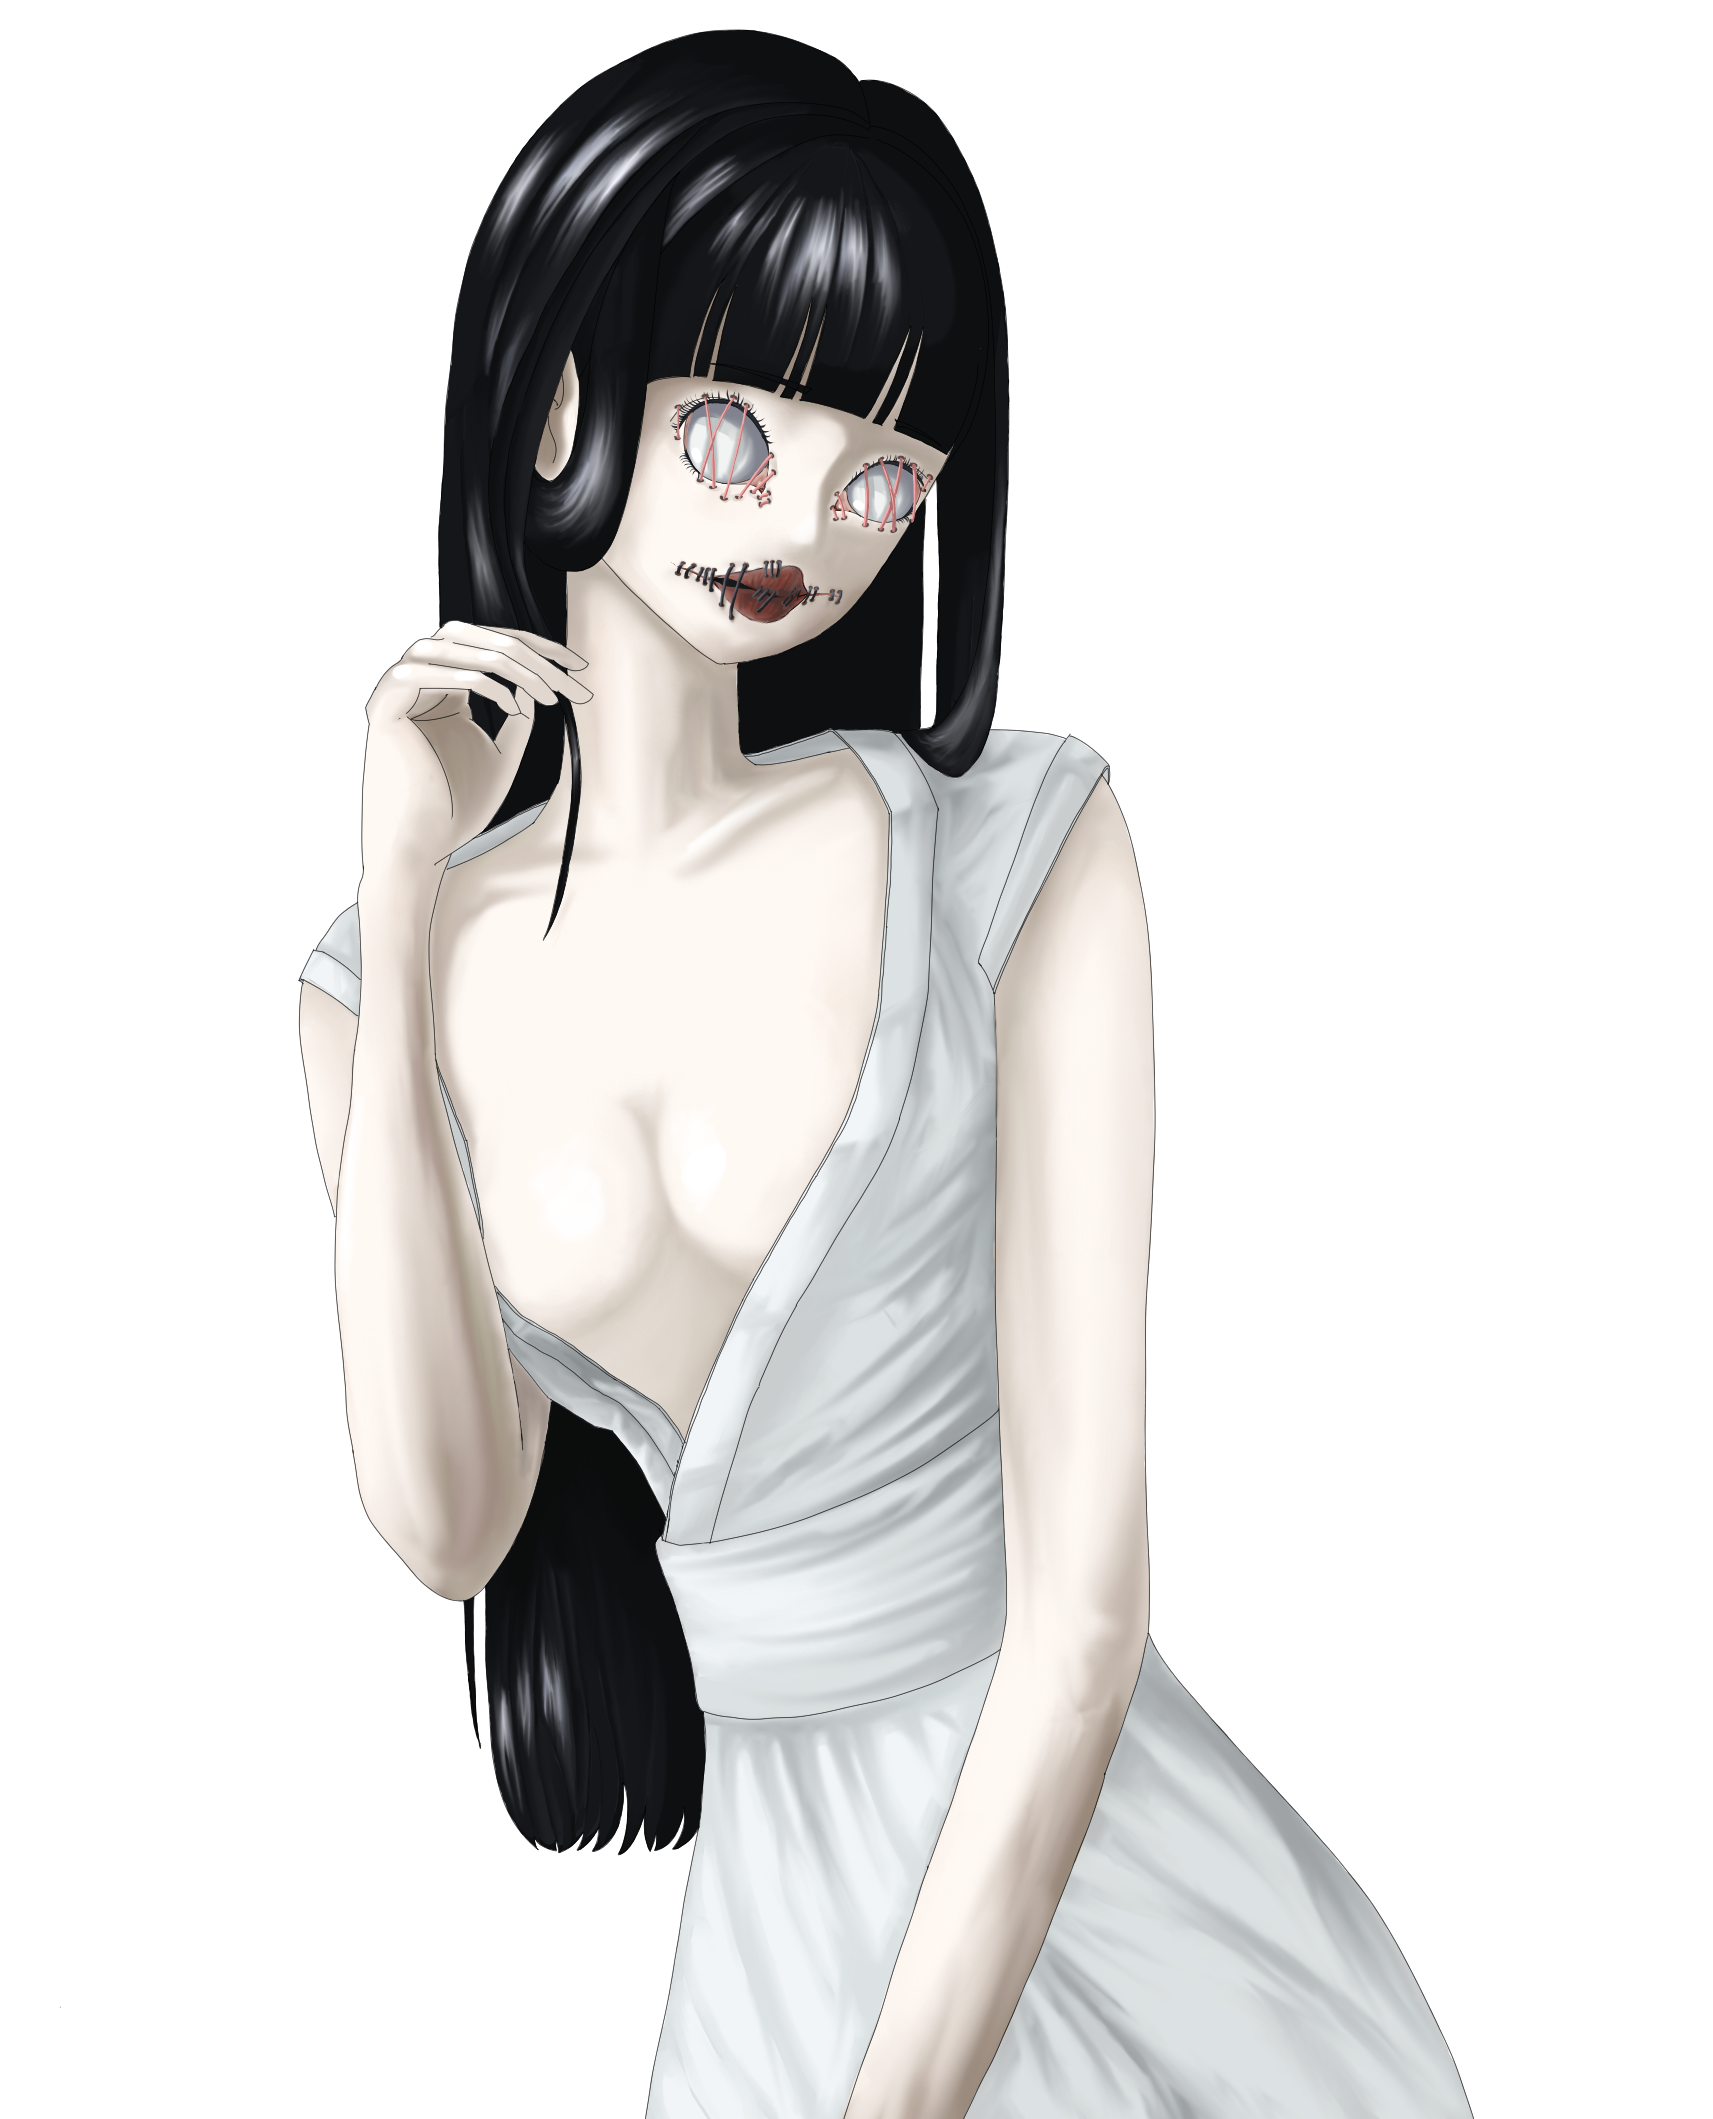
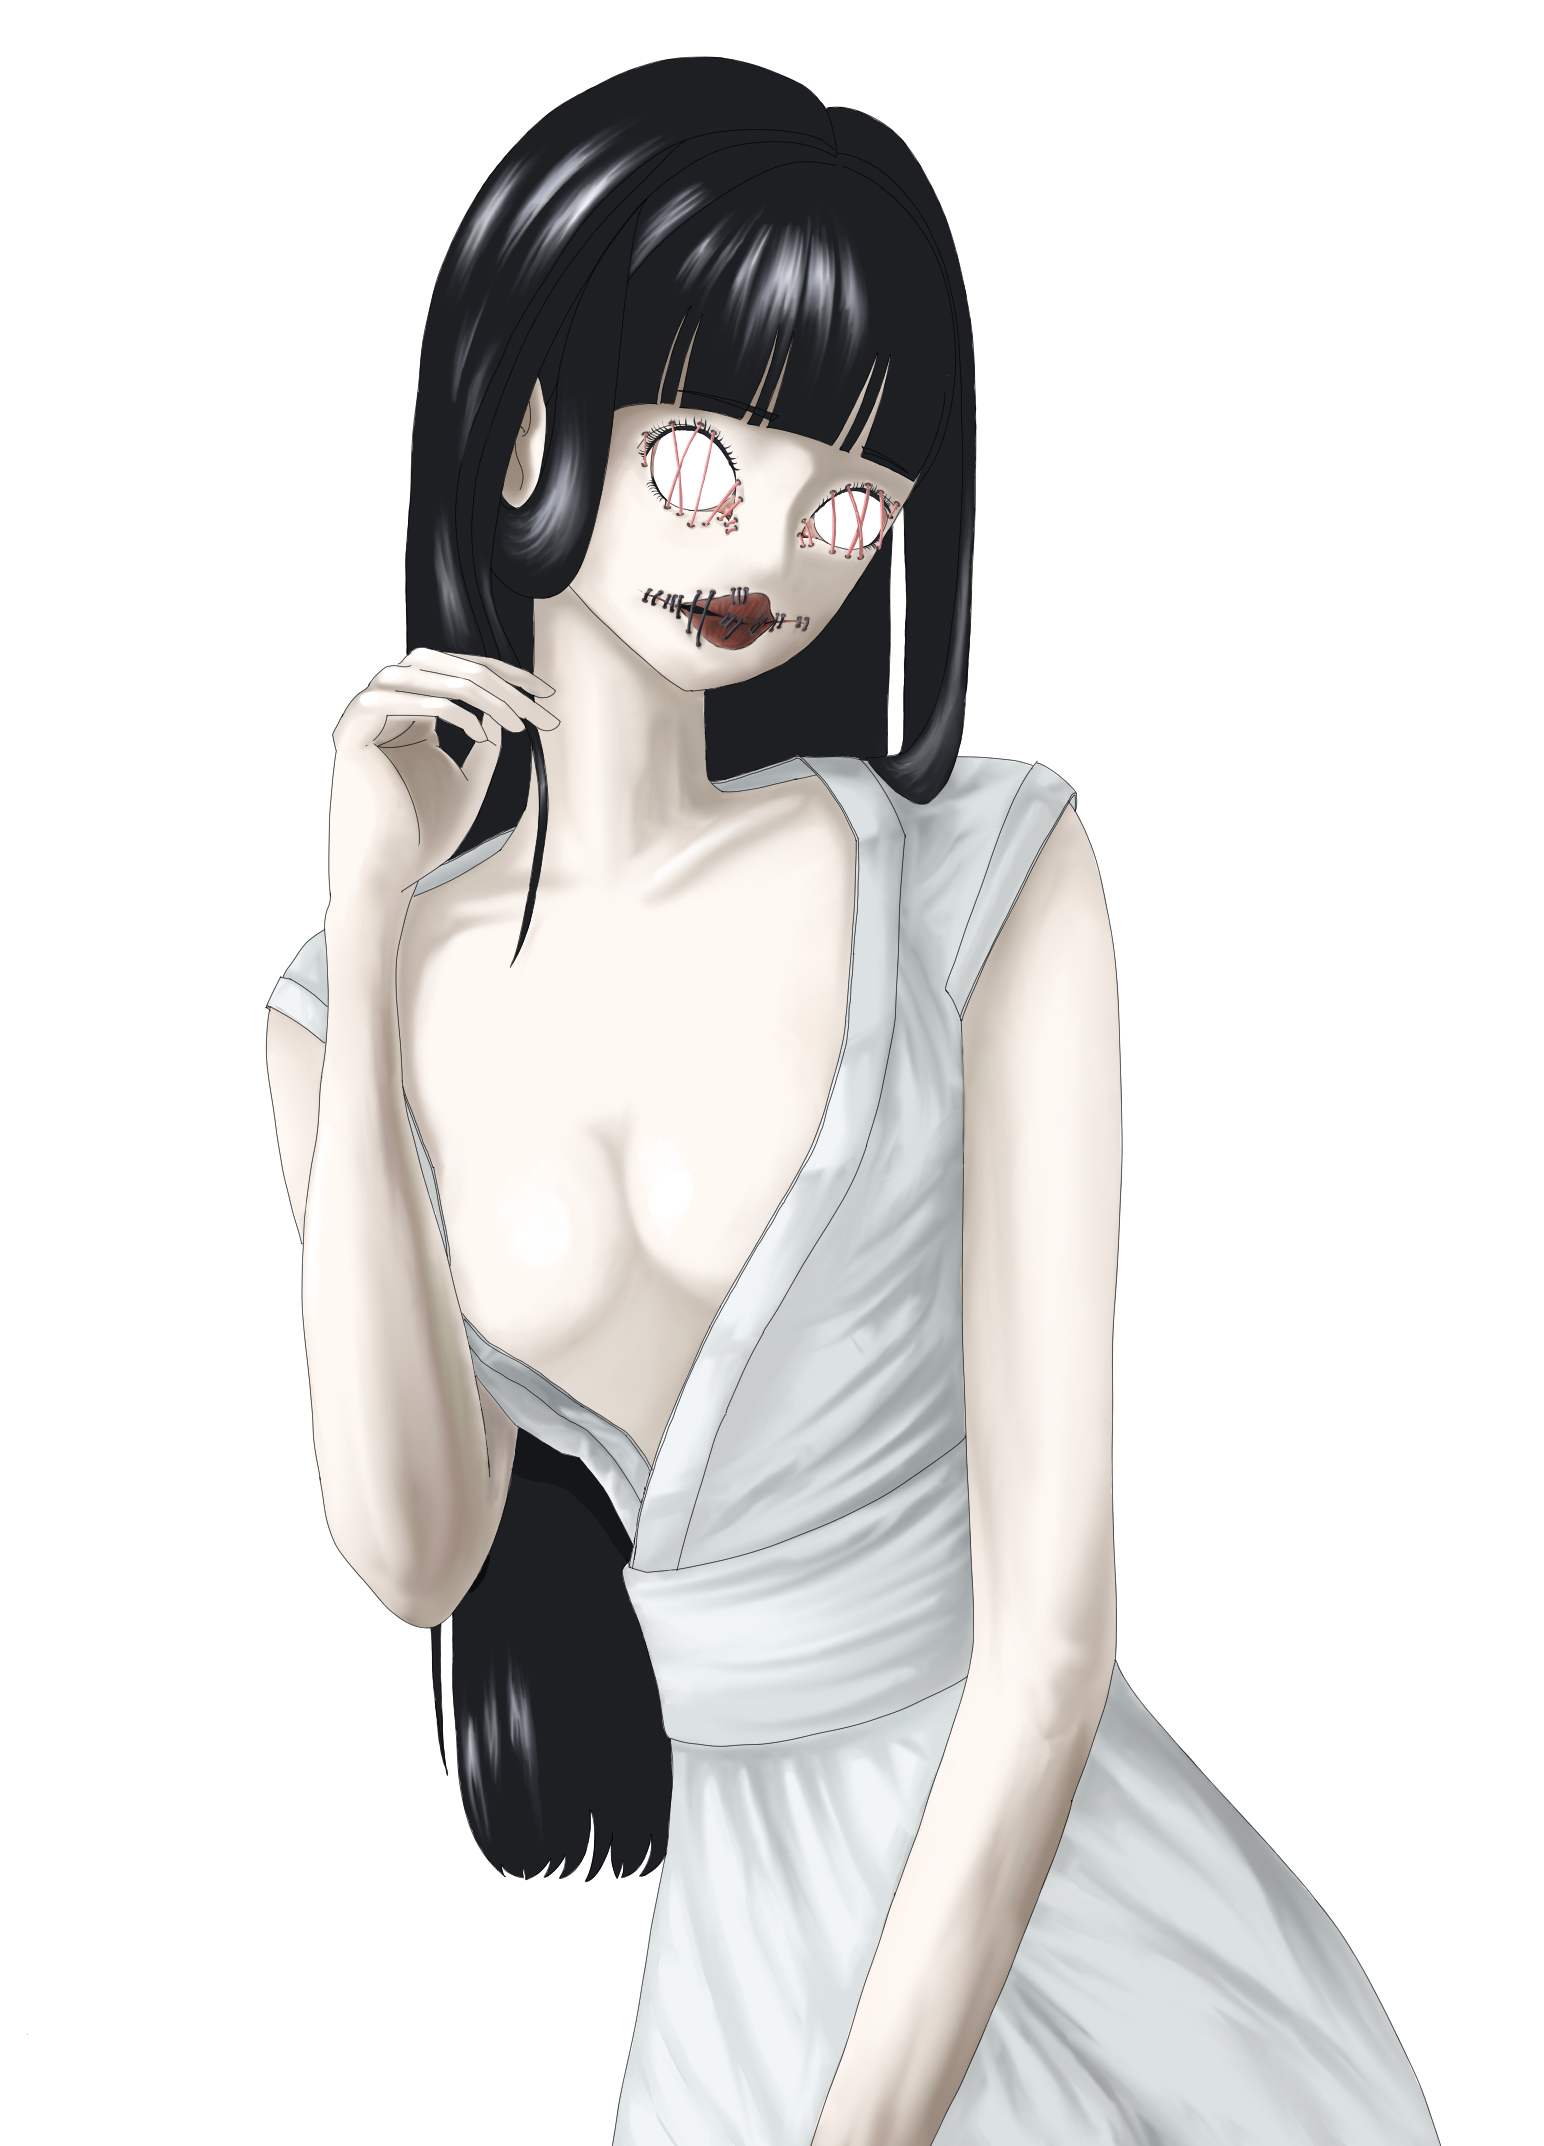
About 2 final aesthetic fix

Changed region(s): [[0.1554, 0.0, 0.9326, 1.0]]

diff --git a/support.html b/support.html
@@ -17,12 +17,21 @@
         <h3>Give in and Give up</h3>
         <a href="Home.html">Home</a>
     </div>
-    <div id="Findings">
+    <div class="Findings">
         <p>We may know that the work we continue to put off doing will be bad. Worse, however, is the work we never do.
             A work that's finished is at least finished. It may be poor, but it exists... What I write, bad as it is, may
             provide some hurt or sad soul a few moments of distraction from something worse. That's enough for me, or it
             isn't enough, but is serves some purpose, and so it is with all of life.</p><br>
         <p>- Fernando Pessoa "The Book of Disquiet"</p><br>
+    </div>
+    <div class="Findings">
+        Hopefully you enjoyed this little game. We may add more to it if people like what we made.This was a project made on a kitchen table, it is our first go at fiction and was a fun little project we hope to keep making. If this is popular enough maybe you will hear more from us. In the meantime, too da loo!</p>
+        <br>
+    </div>
+    <div class="Findings">
+        <p>To see more art from our artist please visit <a href="https://www.instagram.com/se_.young.__/">@se_.young._</a> on instagram or visit her 
+        website <a href="https://angrilyoung.artstation.com/">here</a>.  She is taking commissions now!</p>
+        <br>
     </div>
     <ul>
         <li><a>Hints</a></li>

diff --git a/styles/style.css b/styles/style.css
@@ -67,7 +67,7 @@ input {
   text-shadow: 1px 1px black;
 }
 
-#Findings {
+.Findings {
   width: 75%;
   margin: 0 auto;
   /* background-color: gray; */
@@ -231,10 +231,11 @@ span {
 }
 
 .nopupils{
+  z-index: 2;
   position: relative;
   top: 0;
   left: 0;
-  width: 500px;
+  width: 450px;
   mask-image: linear-gradient(to bottom, rgba(0, 0, 0, 1.0) 70%, transparent 100%);
 }
 
@@ -342,23 +343,32 @@ span {
   }
 }
 
+.eyeshadow {
+  top: 111px;
+  left: 179px;
+  width: 87px;
+  height: auto;
+  z-index: 0;
+  position: absolute;
+}
 
 .leftpupil {
-  top: 123px;
-  left: 200px;
+  top: 131px;
+  left: 192px;
   width: 15px;
   height: auto;
-  z-index: 2;
+  z-index: 1;
   position: absolute;
   animation: shakeLeft 10s infinite;
 }
 
+
 .rightpupil {
-  top: 137px;
-  left: 247px;
+  top: 145px;
+  left: 239px;
   width: 15px;
   height: auto;
-  z-index: 2;
+  z-index: 1;
   position: absolute;
   animation: shakeRight 10s infinite;
 }

diff --git a/About2.html b/About2.html
@@ -13,6 +13,7 @@
 </head>
 <body class = "backgroundAndText">
     <div class = "about2photos">
+        <img class = "eyeshadow" src="./images/GhostGirlEyeShadow.PNG" id="eyeshadow">
         <img class = "nopupils" src="./images/GhostGirlBody.PNG" id="nopupil">
         <img class = "leftpupil" src="./images/GhostGirlLeftEye.PNG" id="leftpupil">
         <img class = "rightpupil" src="./images/GhostGirlRightEye.PNG" id="rightpupil">
